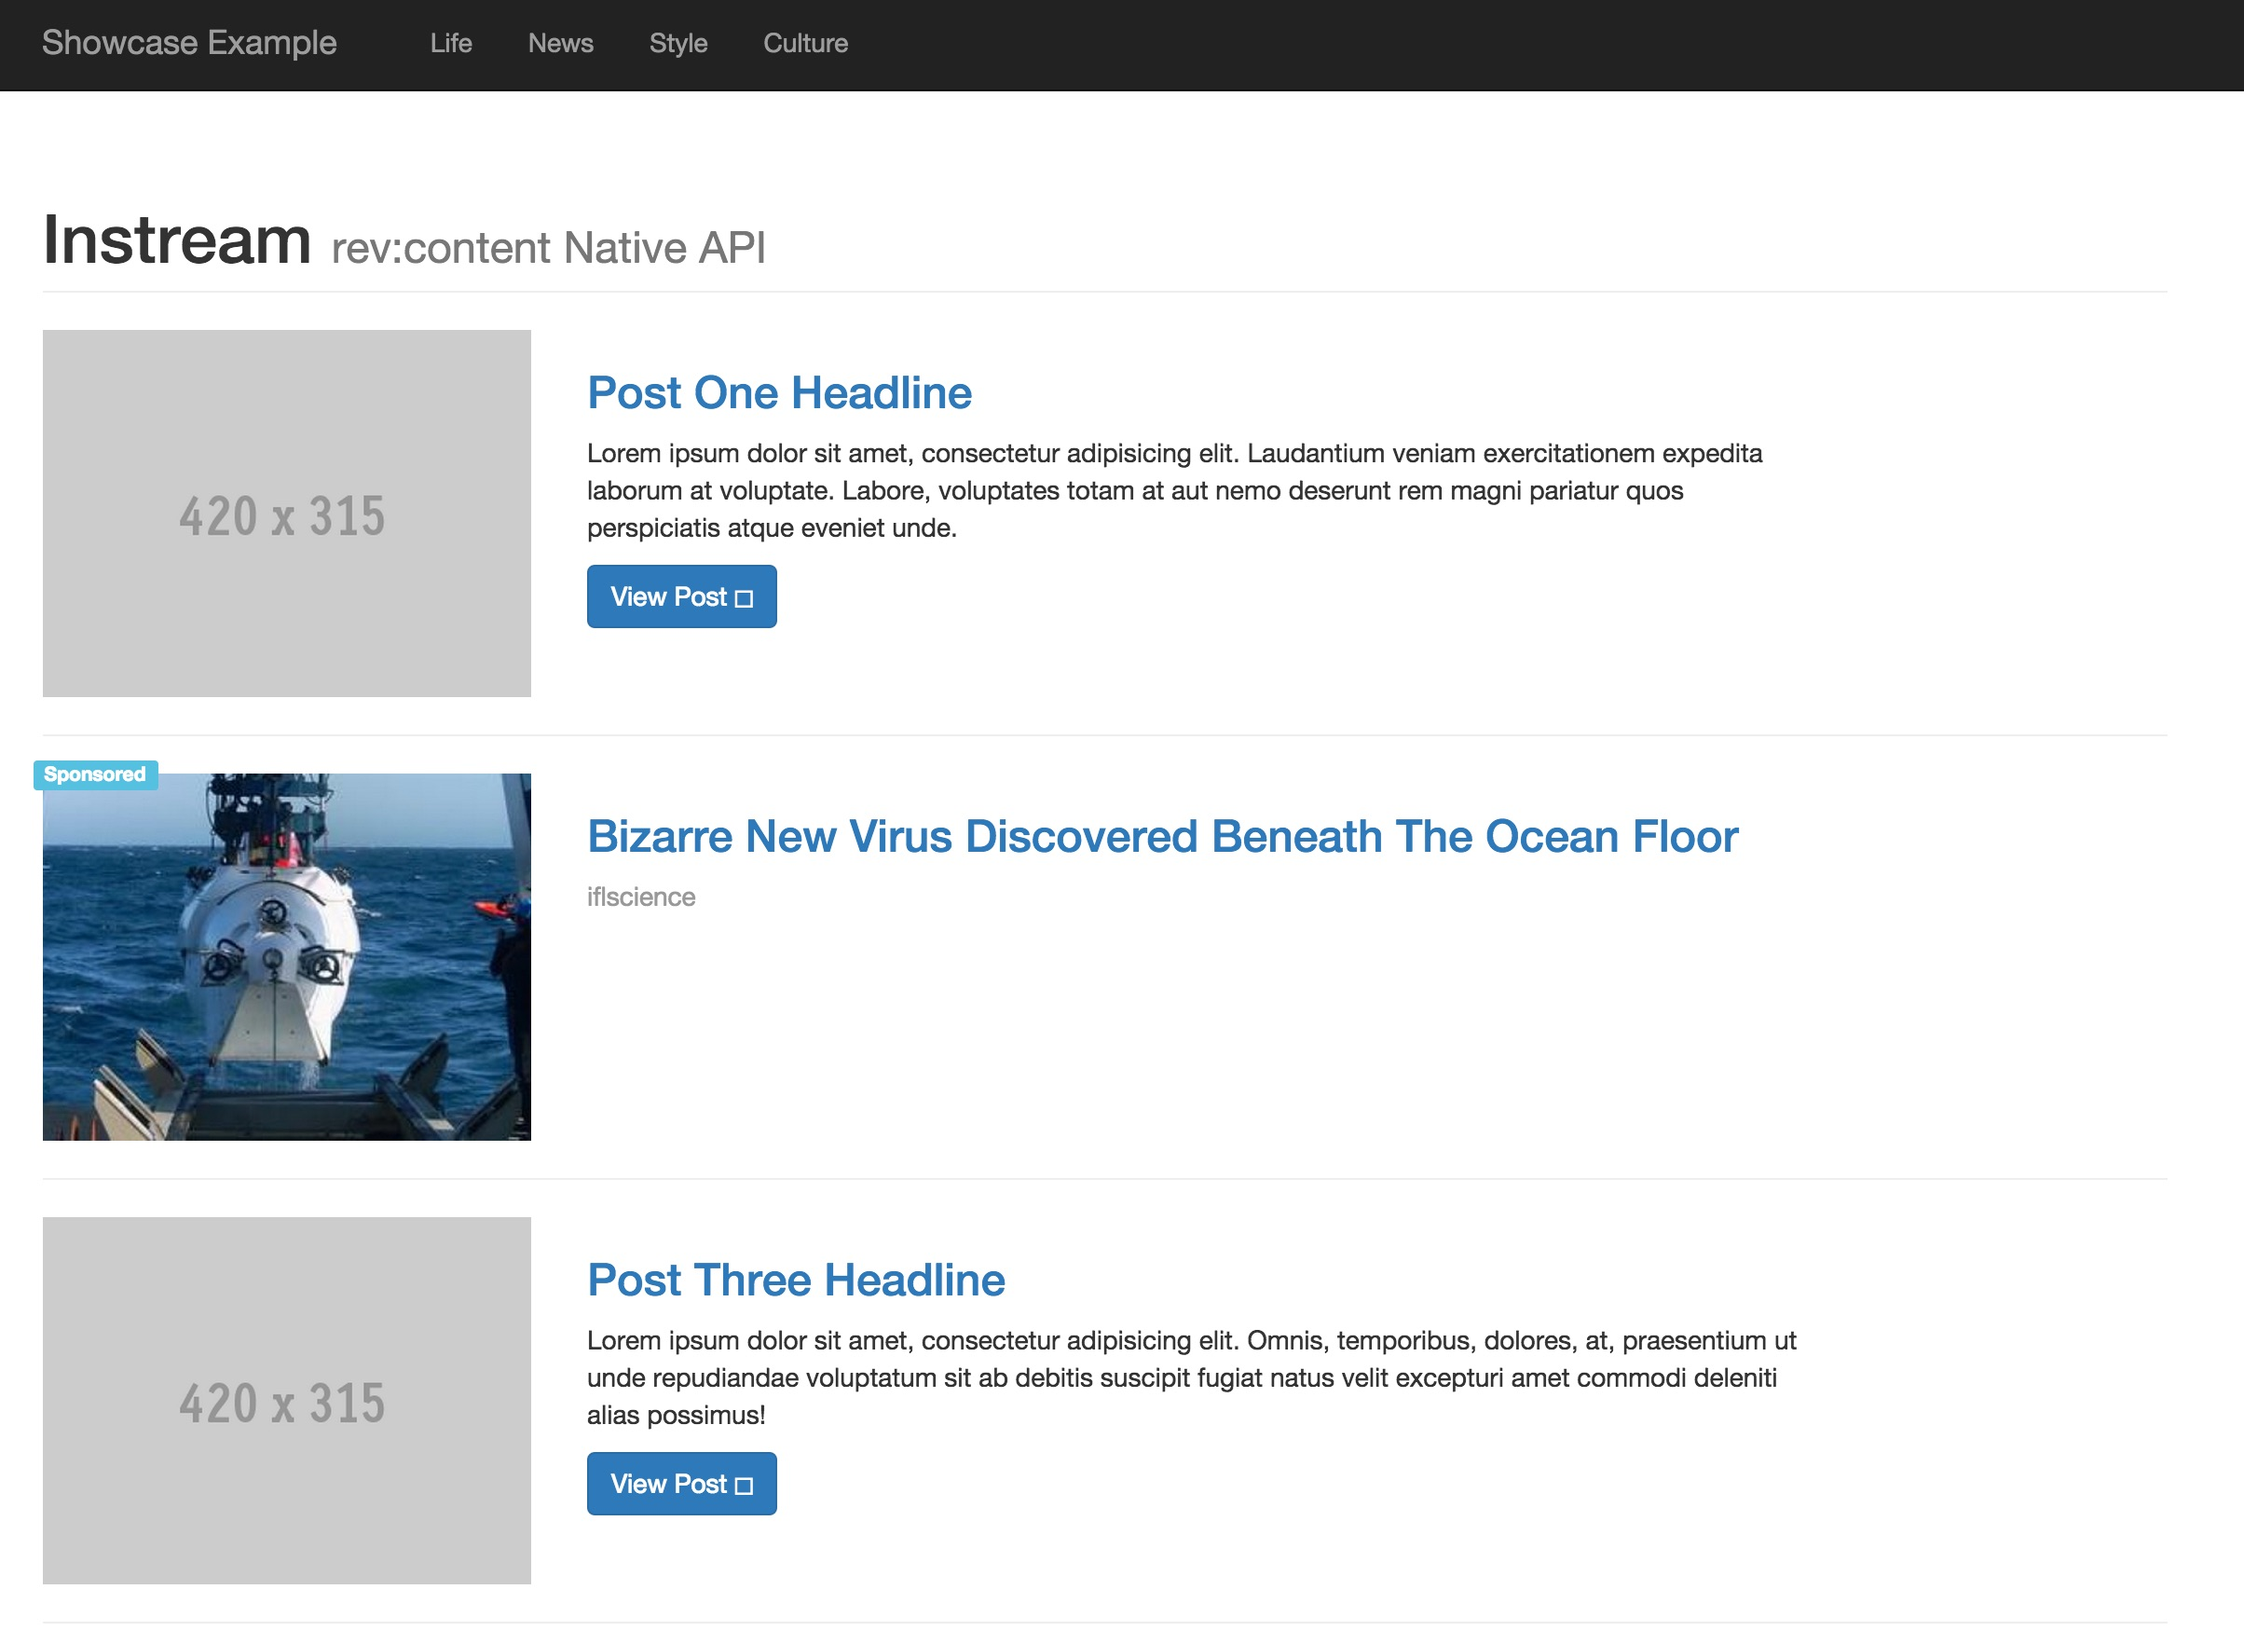
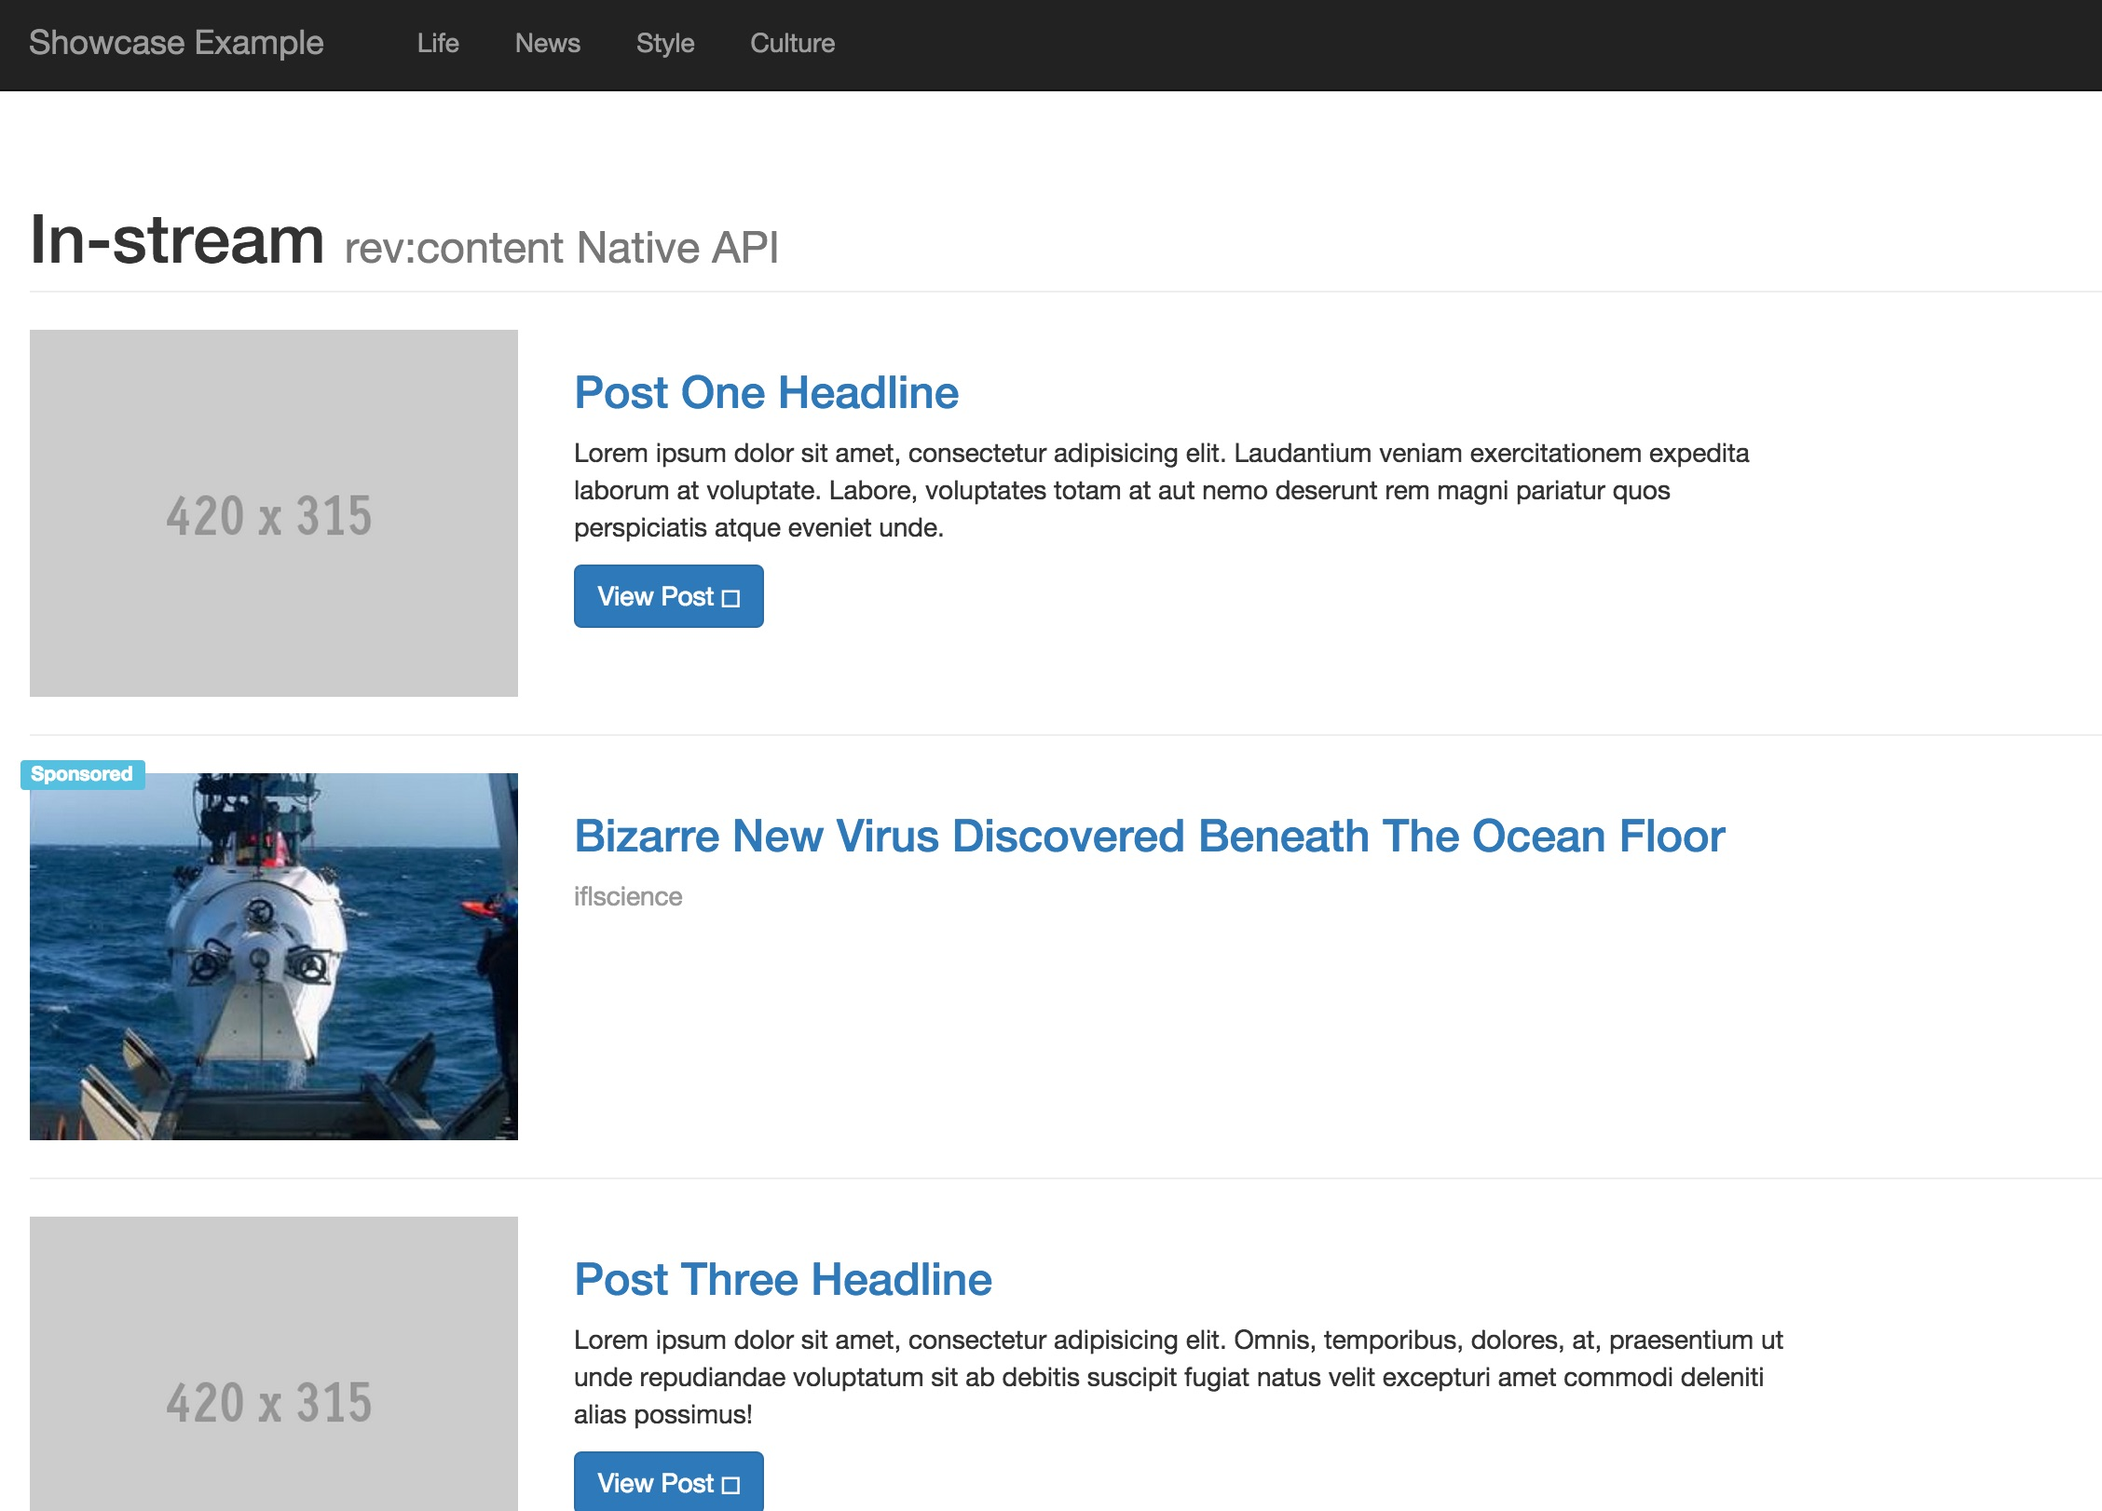
Instream is in-stream

Changed region(s): [[0.0, 0.1233, 0.8378, 1.0], [0.0, 0.0, 1.0, 0.0617], [0.0621, 0.3083, 0.1862, 0.3699]]

diff --git a/htdocs/app/resources/js/app/config/app.routes.js b/htdocs/app/resources/js/app/config/app.routes.js
@@ -34,7 +34,7 @@ app.config(['$stateProvider', '$locationProvider', '$urlMatcherFactoryProvider',
 
                 var plugins = {
                     instream: {
-                        title: 'Instream',
+                        title: 'In-stream',
                         img: 'instream.jpg',
                         description: 'In-stream native sponsored content can look, feel, and function seamlessly across mobile, desktop, or tablet. With the API you\'re in full control of the integration on your web property, inject targeted content in-stream on your homepage, mobile view, or where it fits best for your users.',
                         link: 'revcontent-api-showcase-instream-1.0',

diff --git a/htdocs/app/resources/js/app/grid/grid.html b/htdocs/app/resources/js/app/grid/grid.html
@@ -11,7 +11,7 @@
         <md-card ui-sref="post({id: 'instream'})">
             <img class="img-responsive preview" src="/app/resources/img/instream.jpg" alt="Instream">
             <md-card-content>
-                <h2 class="md-title">Instream</h2>
+                <h2 class="md-title">In-stream</h2>
             </md-card-content>
         </md-card>
     </div>

diff --git a/htdocs/showcase/revcontent-api-showcase-instream-1.0/index.php b/htdocs/showcase/revcontent-api-showcase-instream-1.0/index.php
@@ -61,7 +61,7 @@
     <meta name="description" content="">
     <meta name="author" content="">
 
-    <title>Instream Example</title>
+    <title>In-stream Example</title>
 
     <!-- Bootstrap Core CSS -->
     <link href="css/bootstrap.min.css" rel="stylesheet">
@@ -124,7 +124,7 @@
         <!-- Page Heading -->
         <div class="row">
             <div class="col-lg-12">
-                <h1 class="page-header">Instream
+                <h1 class="page-header">In-stream
                     <small>rev:content Native API</small>
                 </h1>
             </div>
